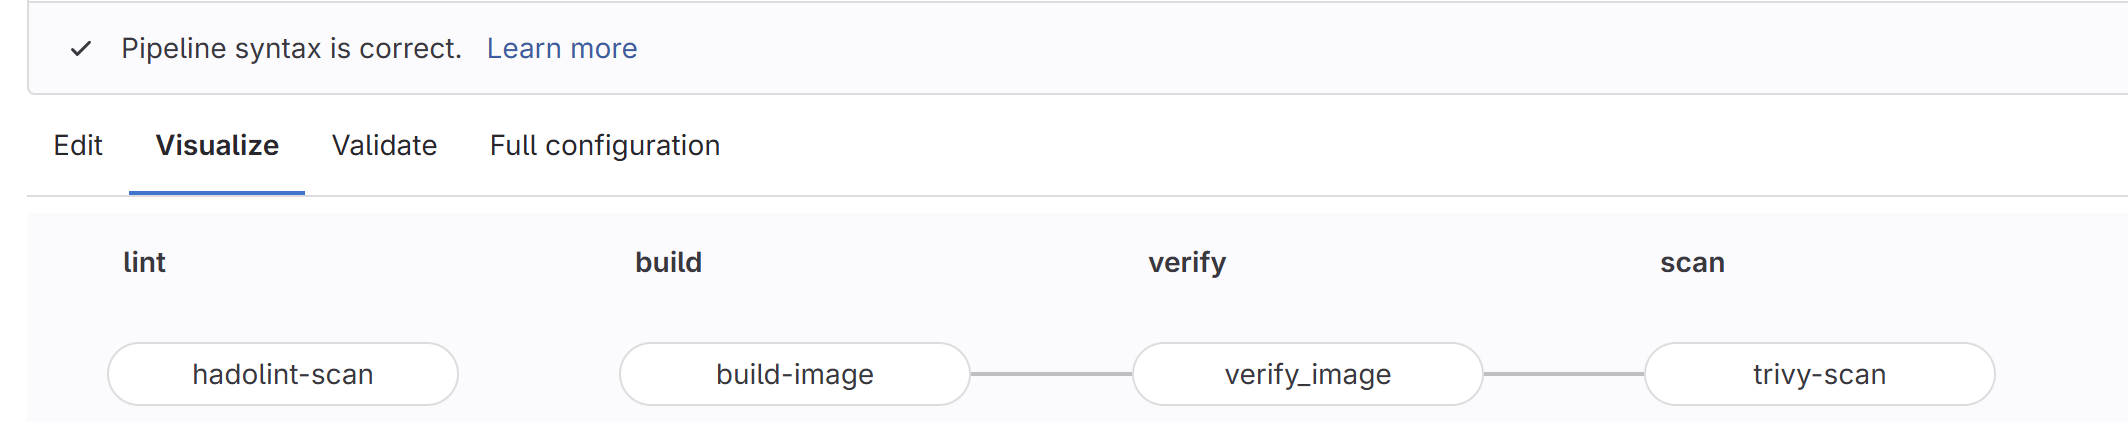
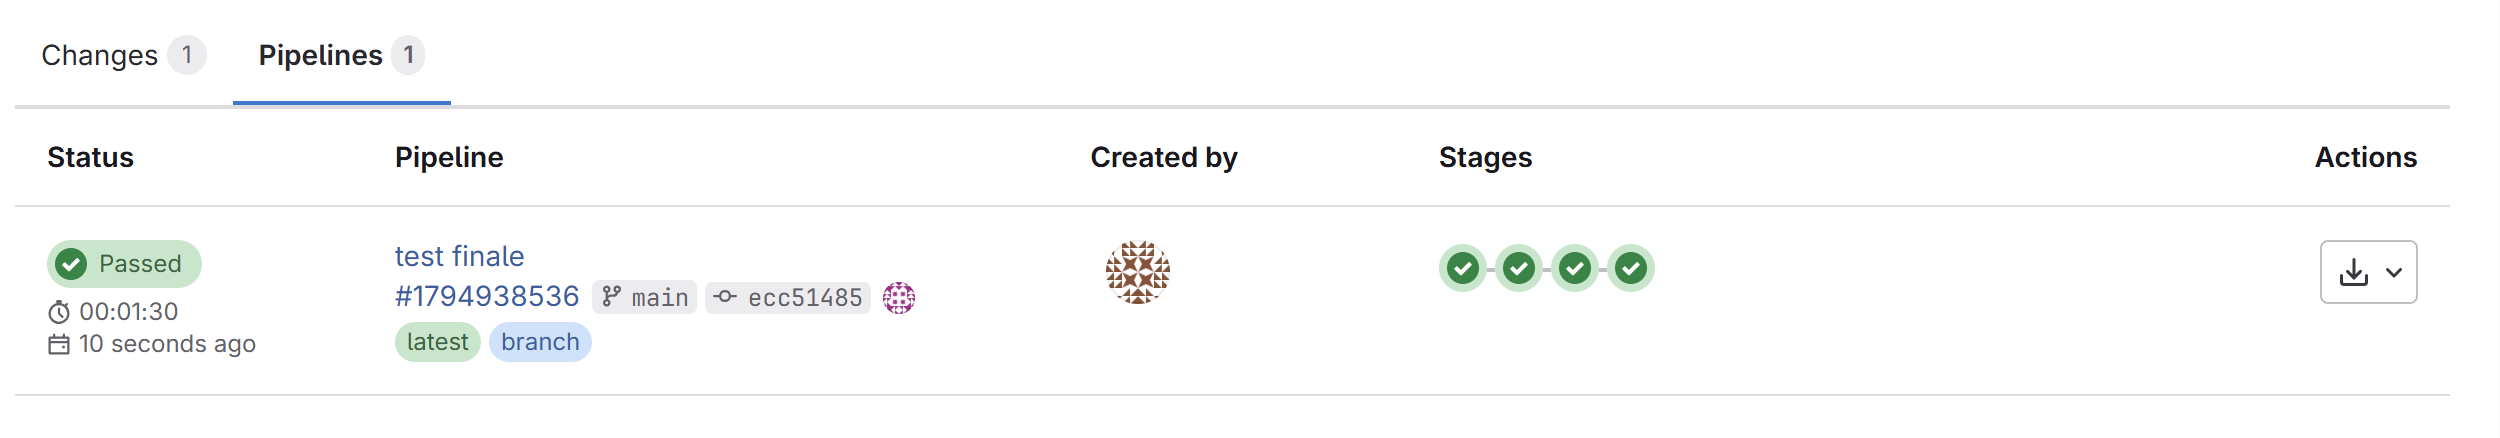
fix erreur session 4

diff --git a/monprojet/session4.md b/monprojet/session4.md
@@ -41,7 +41,6 @@ Pour l'image:v2
 ## Sécurité dans les Pipelines CI/CD
 
 ![alt text](image_session4/image-11.png)
-![alt text](image_session4/image-13.png)
 
 - Lint (hadolint-scan) → vérifie la qualité du Dockerfile.
 
@@ -49,8 +48,18 @@ Pour l'image:v2
 
 - Verify (verify_image) → vérifie la signature Cosign.
 
-- Scan (trivy-scan) →  Trivy détecte une vulnérabilité critique dans l'image.
+- Scan (trivy-scan) →  Trivy détecte les vulnérabilités critique dans l'image.
 
 ![alt text](image_session4/image-12.png)
 
-Ici il n'arrive pas à passer le lint (l'étape du Dockerfile)
+Ici il n'arrive pas à passer le scan Trivy détecte une vulnérabilité critique dans l'image.
+
+      ┌─────────┬────────────────┬──────────┬────────┬───────────────────┬───────────────┬─────────────────────────────────────────────────────────────┐
+│ Library │ Vulnerability  │ Severity │ Status │ Installed Version │ Fixed Version │                            Title                            │
+├─────────┼────────────────┼──────────┼────────┼───────────────────┼───────────────┼─────────────────────────────────────────────────────────────┤
+│ zlib    │ CVE-2022-37434 │ CRITICAL │ fixed  │ 1.2.12-r0         │ 1.2.12-r2     │ zlib: heap-based buffer over-read and overflow in inflate() │
+│         │                │          │        │                   │               │ in inflate.c via a...                                       │
+│         │                │          │        │                   │               │ https://avd.aquasec.com/nvd/cve-2022-37434                  │
+└─────────┴────────────────┴──────────┴────────┴───────────────────┴───────────────┴─────────────────────────────────────────────────────────────┘
+Cleaning up project directory and file based variables
+ERROR: Job failed: exit code 
